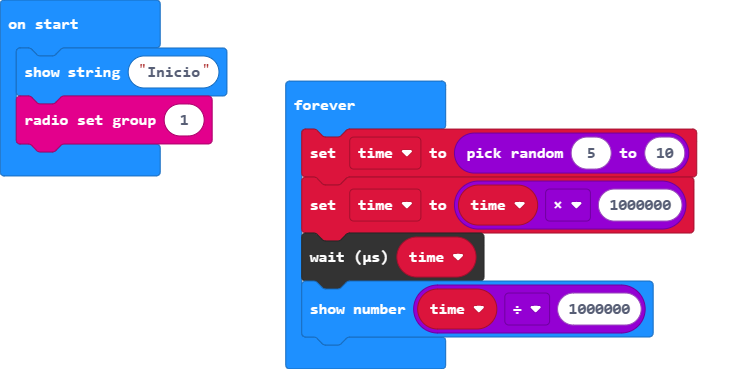
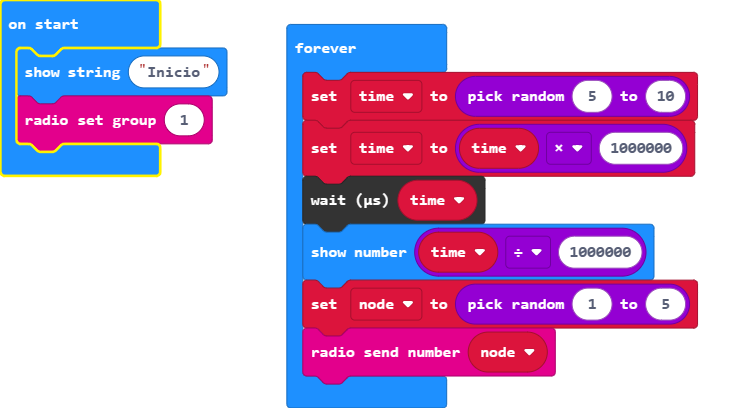
Update main.blocks, main.ts

diff --git a/main.ts b/main.ts
@@ -1,3 +1,4 @@
+let node = 0
 let time = 0
 basic.showString("Inicio")
 radio.setGroup(1)
@@ -6,4 +7,6 @@ basic.forever(function () {
     time = time * 1000000
     control.waitMicros(time)
     basic.showNumber(time / 1000000)
+    node = randint(1, 5)
+    radio.sendNumber(node)
 })
